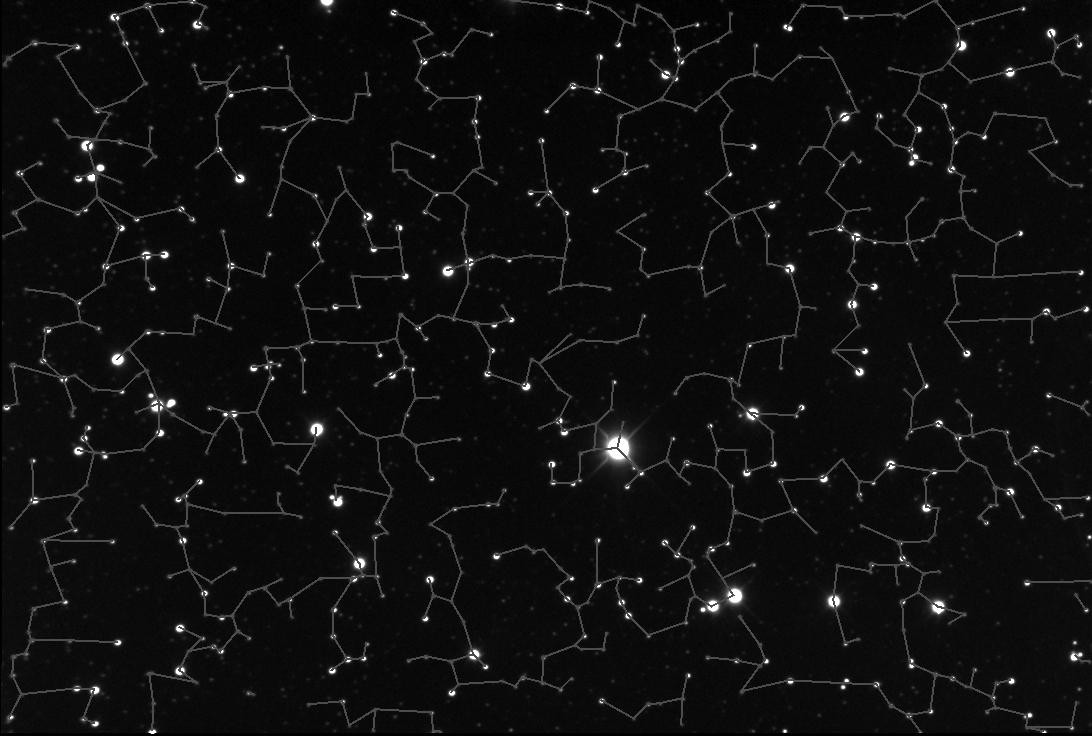
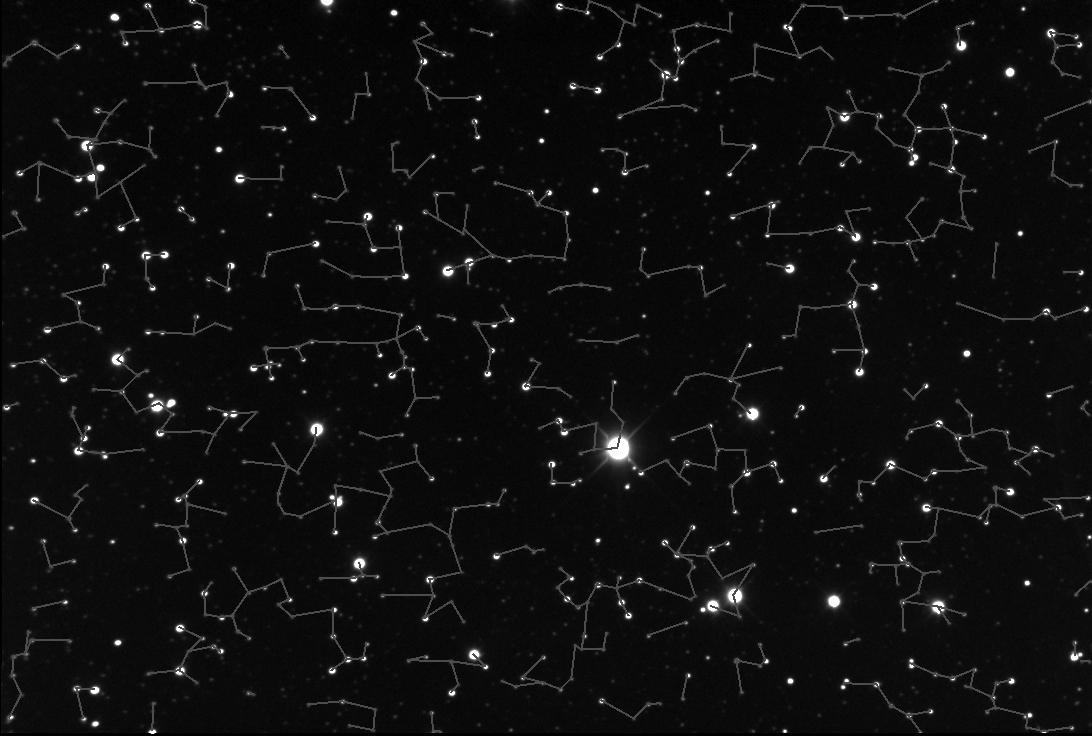
Added a constellation constant

diff --git a/Stars/src/com/algorithms/stars/Stars.java b/Stars/src/com/algorithms/stars/Stars.java
@@ -19,6 +19,7 @@ import javax.imageio.ImageIO;
 public class Stars {
 	
 	private static final int EDGE_INTENSITY_FALLOFF = 128;
+	private static final float CONSTELLATION_CONSTANT = 1.9f;
 
 	/**
 	 * @param args
@@ -100,6 +101,7 @@ public class Stars {
 			}
 		}
 		
+		// Run Kruskal's algorithm for the Max-Spanning Tree
 		while (!pixelMaxPriorityQueue.isEmpty()) {
 			Edge edge = pixelMaxPriorityQueue.poll();
 			Node first = edge.getFirst();
@@ -124,7 +126,7 @@ public class Stars {
 		
 		List<StarNode> totalStarNodes = new LinkedList<StarNode>();
 		
-		int broadphaseLegSize = (int)(Math.sqrt(stars.size()));
+		int broadphaseLegSize = (int)(Math.sqrt(stars.size() * CONSTELLATION_CONSTANT));
 		int broadphaseCellWidth = starImg.getWidth() / broadphaseLegSize;
 		int broadphaseCellHeight = starImg.getHeight() / broadphaseLegSize;
 		List<StarNode>[][] broadphaseStars = new LinkedList[broadphaseLegSize][broadphaseLegSize];
